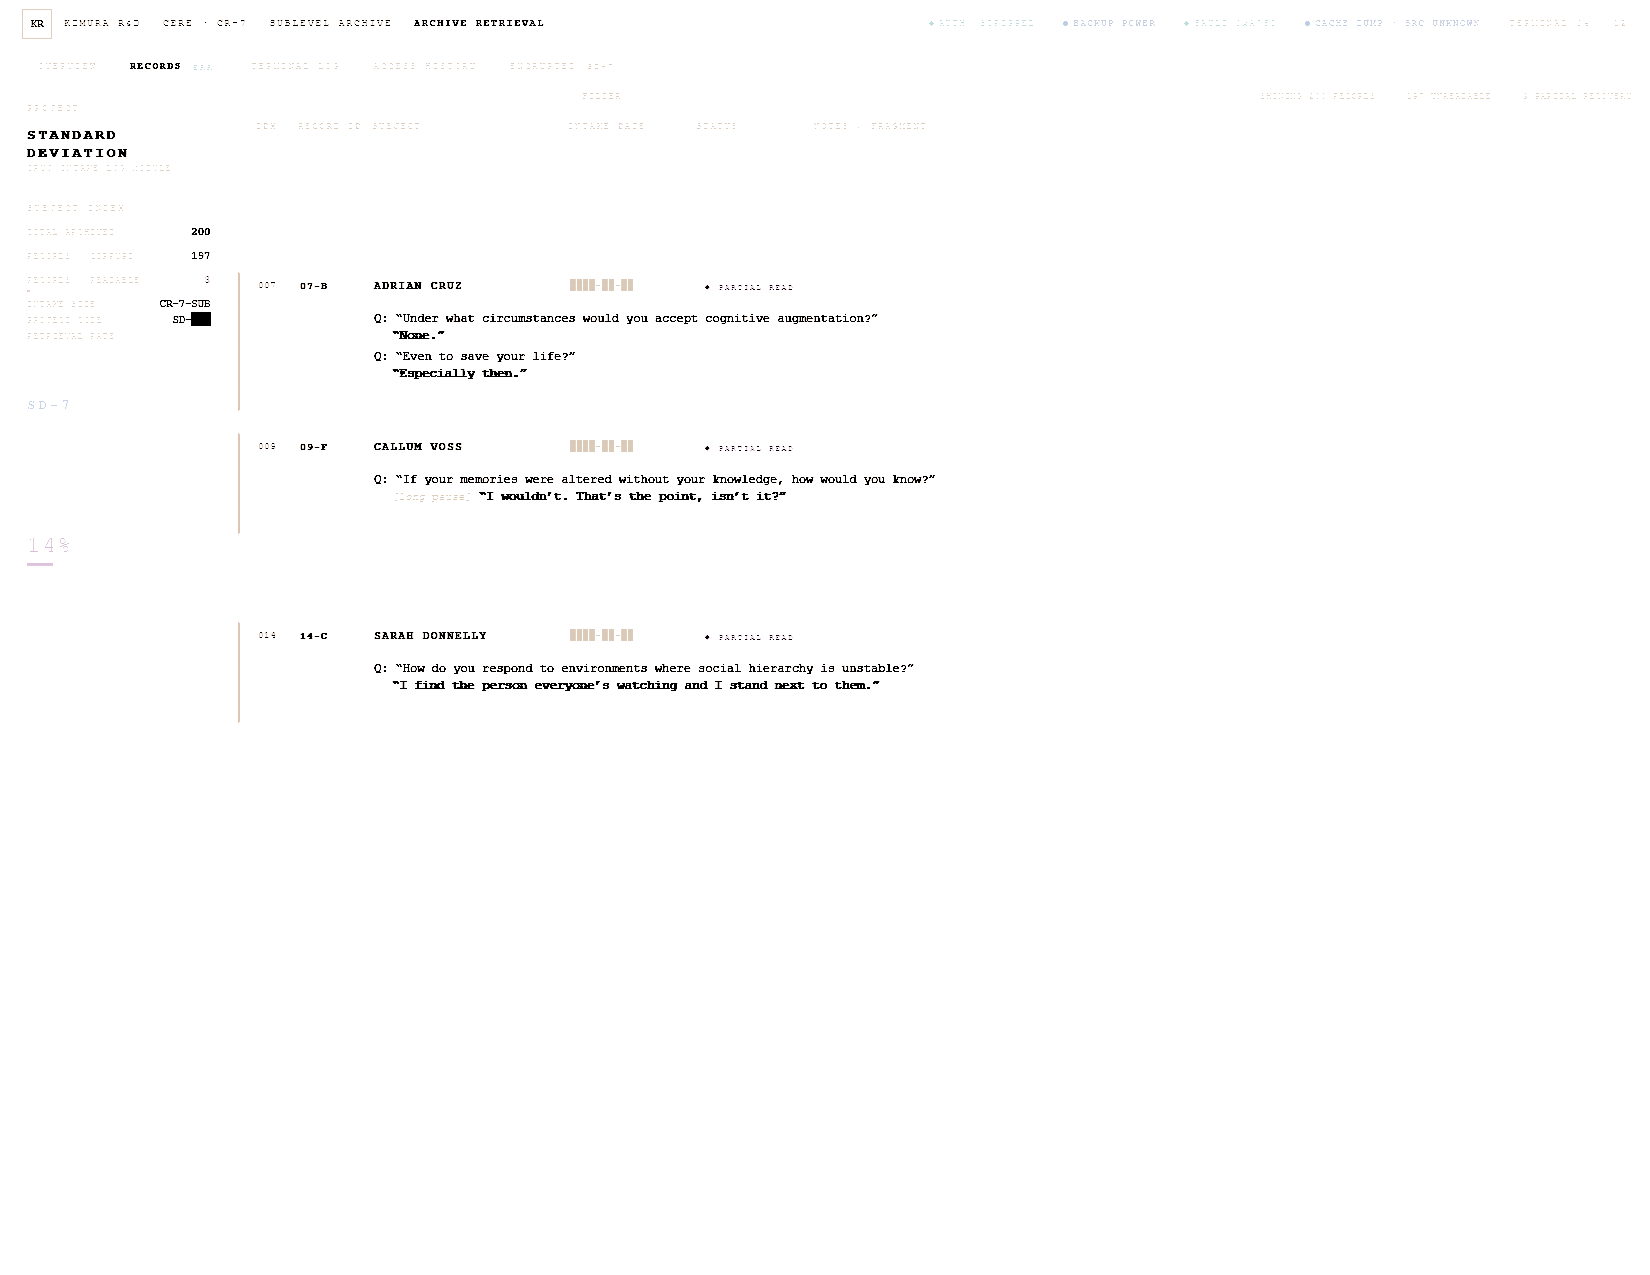
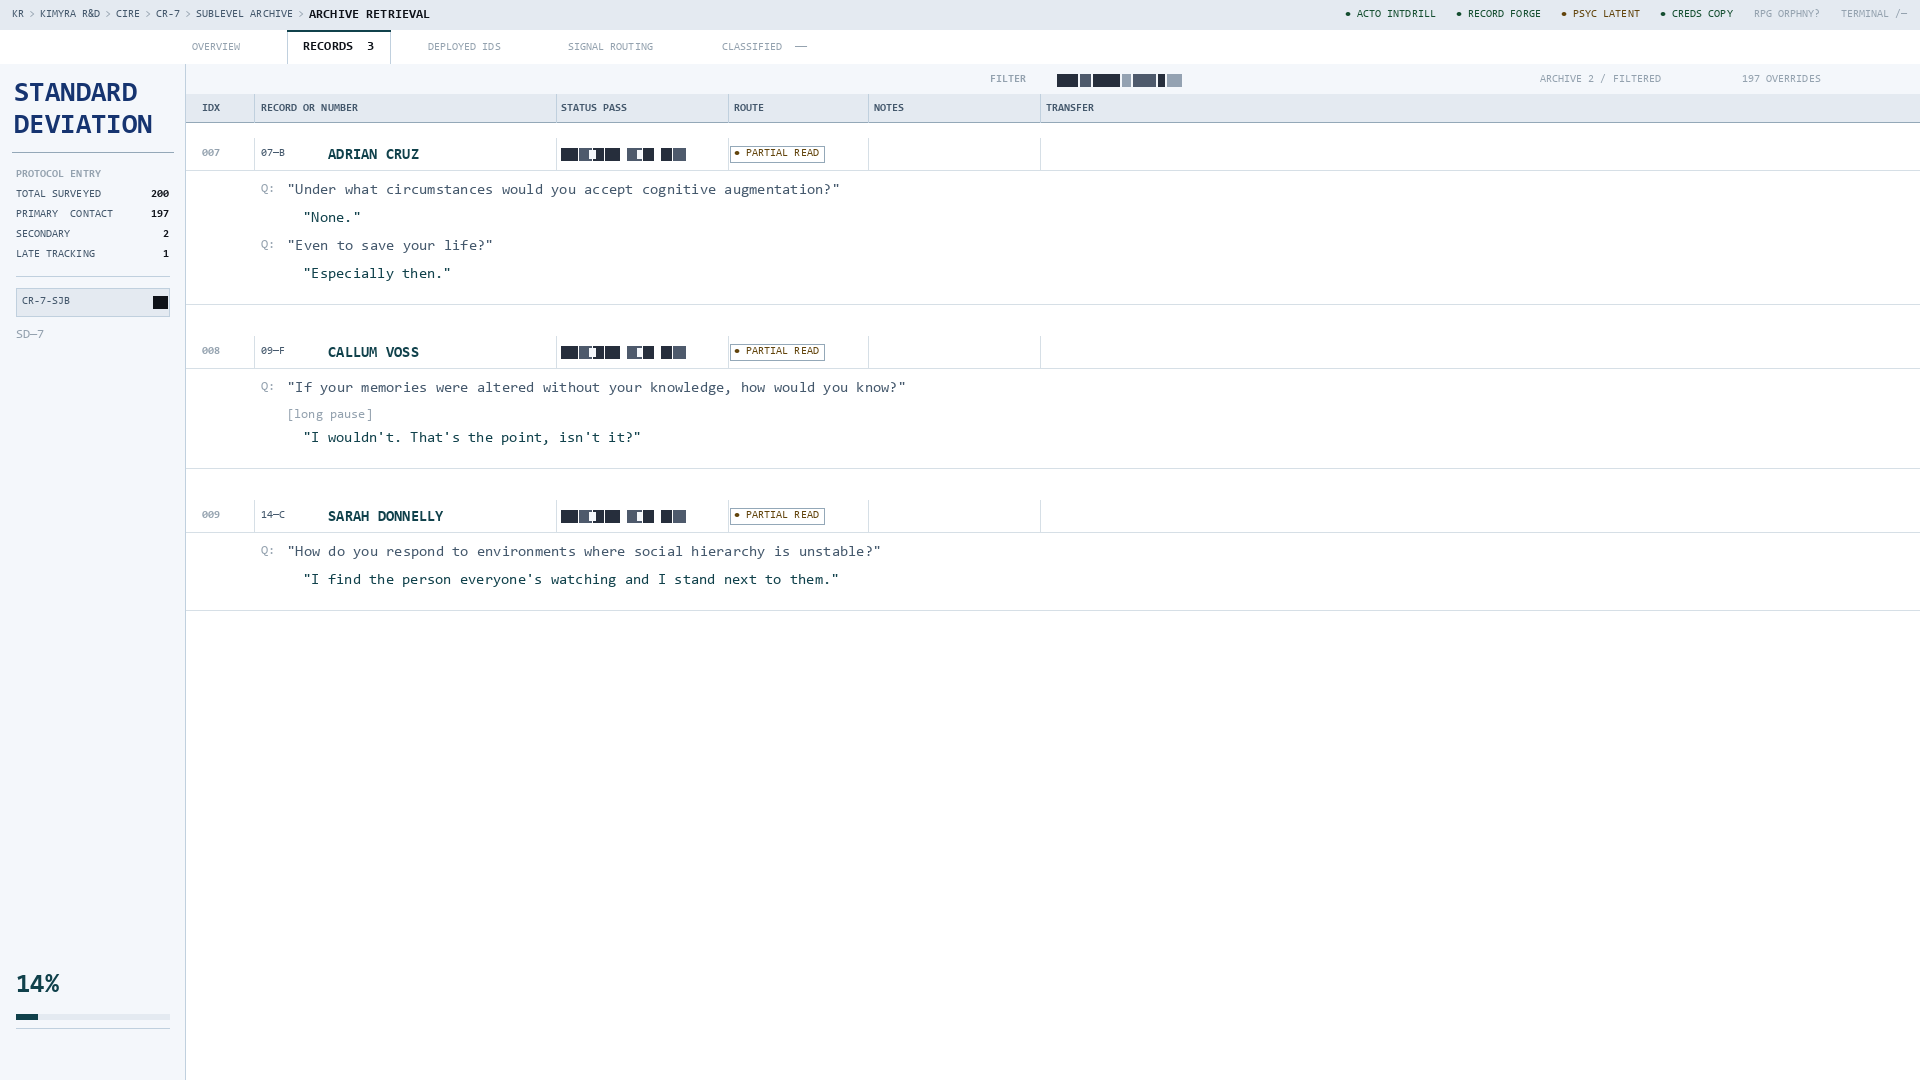
vault backup: 2026-04-11 17:48:28

diff --git a/_Assets/Scripts/gen_print_ui.py b/_Assets/Scripts/gen_print_ui.py
@@ -1,0 +1,274 @@
+from PIL import Image, ImageDraw, ImageFont
+
+W, H = 1920, 1080
+
+BG       = (255, 255, 255)
+PANEL    = (244, 247, 251)
+PANEL_DK = (228, 234, 241)
+BORDER   = (192, 208, 222)
+BORDER_DK= (148, 168, 184)
+TEXT_PRI = (14,  18,  25)
+TEXT_SEC = (68,  88, 108)
+TEXT_MUT = (148, 162, 175)
+TEAL     = (16,  65,  75)
+BLUE_DK  = (22,  52, 112)
+GREEN_DK = (20,  78,  48)
+AMBER_DK = (98,  68,  12)
+RULE     = (214, 223, 230)
+CRPT_HI  = (38,  46,  60)
+CRPT_MD  = (78,  90, 108)
+CRPT_LO  = (148, 162, 178)
+
+F = "C:/Windows/Fonts/"
+
+def mf(name, size):
+    try:
+        return ImageFont.truetype(F + name, size)
+    except:
+        return ImageFont.load_default()
+
+fonts = {
+    "xs":    mf("consola.ttf",  11),
+    "xs_b":  mf("consolab.ttf", 11),
+    "sm":    mf("consola.ttf",  13),
+    "sm_b":  mf("consolab.ttf", 13),
+    "md":    mf("consola.ttf",  15),
+    "md_b":  mf("consolab.ttf", 15),
+    "lg_b":  mf("consolab.ttf", 20),
+    "xl_b":  mf("consolab.ttf", 26),
+    "xxl_b": mf("consolab.ttf", 28),
+}
+
+img  = Image.new("RGB", (W, H), BG)
+draw = ImageDraw.Draw(img)
+
+def T(xy, s, color=TEXT_PRI, fk="md"):
+    draw.text(xy, s, fill=color, font=fonts[fk])
+
+def L(p1, p2, color=BORDER, w=1):
+    draw.line([p1, p2], fill=color, width=w)
+
+def R(box, fill=None, outline=None, ow=1):
+    draw.rectangle(box, fill=fill, outline=outline, width=ow)
+
+def TW(s, fk="md"):
+    bb = draw.textbbox((0, 0), s, font=fonts[fk])
+    return bb[2] - bb[0]
+
+# ── TOP NAV BAR ──────────────────────────────────────────────────────────────
+NAV_H = 30
+R([(0, 0), (W, NAV_H)], fill=PANEL_DK)
+L((0, NAV_H), (W, NAV_H), BORDER_DK)
+
+crumbs = [("KR", False), ("KIMYRA R&D", False), ("CIRE", False),
+          ("CR-7", False), ("SUBLEVEL ARCHIVE", False), ("ARCHIVE RETRIEVAL", True)]
+cx = 12
+for label, active in crumbs:
+    fk = "sm_b" if active else "xs"
+    col = TEXT_PRI if active else TEXT_SEC
+    T((cx, 8), label, col, fk)
+    cx += TW(label, fk) + 5
+    if not active:
+        T((cx, 8), ">", TEXT_MUT, "xs")
+        cx += TW(">", "xs") + 5
+
+right_items = [
+    ("● ACTO INTDRILL", GREEN_DK), ("● RECORD FORGE", GREEN_DK),
+    ("● PSYC LATENT",  AMBER_DK), ("● CREDS COPY",   GREEN_DK),
+    ("RPG ORPHNY?",    TEXT_MUT), ("TERMINAL /—",     TEXT_MUT),
+]
+rx = W - 12
+for label, col in reversed(right_items):
+    w_ = TW(label, "xs")
+    rx -= w_
+    T((rx, 8), label, col, "xs")
+    rx -= 20
+
+# ── TAB BAR ──────────────────────────────────────────────────────────────────
+TAB_Y = NAV_H
+TAB_H = 34
+R([(0, TAB_Y), (W, TAB_Y + TAB_H)], fill=BG)
+L((0, TAB_Y + TAB_H), (W, TAB_Y + TAB_H), BORDER)
+
+tabs = [("OVERVIEW", False), ("RECORDS  3", True), ("DEPLOYED IDS", False),
+        ("SIGNAL ROUTING", False), ("CLASSIFIED  ——", False)]
+tx = 192
+for label, active in tabs:
+    tw  = TW(label, "sm")
+    pad = 16
+    by  = TAB_Y
+    if active:
+        R([(tx - pad, by), (tx + tw + pad, by + TAB_H)], fill=BG, outline=BORDER)
+        L((tx - pad + 1, by + TAB_H), (tx + tw + pad - 1, by + TAB_H), BG, 2)
+        L((tx - pad, by), (tx + tw + pad, by), TEAL, 2)
+        T((tx, by + 10), label, TEXT_PRI, "sm_b")
+    else:
+        T((tx, by + 11), label, TEXT_MUT, "xs")
+    tx += tw + pad * 2 + 22
+
+# ── SIDEBAR ──────────────────────────────────────────────────────────────────
+SB_W = 185
+SB_Y = TAB_Y + TAB_H
+R([(0, SB_Y), (SB_W, H)], fill=PANEL)
+L((SB_W, SB_Y), (SB_W, H), BORDER)
+
+T((14, SB_Y + 16), "STANDARD",  BLUE_DK, "xxl_b")
+T((14, SB_Y + 48), "DEVIATION", BLUE_DK, "xxl_b")
+L((12, SB_Y + 88), (SB_W - 12, SB_Y + 88), BORDER_DK)
+
+sy = SB_Y + 104
+stat_rows = [
+    ("PROTOCOL ENTRY",   None),
+    ("TOTAL SURVEYED",   "200"),
+    ("PRIMARY  CONTACT", "197"),
+    ("SECONDARY",          "2"),
+    ("LATE TRACKING",      "1"),
+]
+for label, val in stat_rows:
+    if val is None:
+        T((16, sy), label, TEXT_MUT, "xs_b")
+    else:
+        T((16, sy), label, TEXT_SEC, "xs")
+        T((SB_W - 16 - TW(val, "xs_b"), sy), val, TEXT_PRI, "xs_b")
+    sy += 20
+
+sy += 8
+L((16, sy), (SB_W - 16, sy), BORDER)
+sy += 12
+
+R([(16, sy), (SB_W - 16, sy + 28)], fill=PANEL_DK, outline=BORDER)
+T((22, sy + 7), "CR-7-SJB", TEXT_SEC, "xs")
+R([(SB_W - 32, sy + 8), (SB_W - 18, sy + 20)], fill=TEXT_PRI)
+sy += 40
+T((16, sy), "SD—7", TEXT_MUT, "sm")
+
+py = H - 108
+T((16, py), "14%", TEAL, "xl_b")
+py += 42
+bar_x1, bar_x2 = 16, SB_W - 16
+R([(bar_x1, py), (bar_x2, py + 5)], fill=PANEL_DK)
+fill_end = bar_x1 + int((bar_x2 - bar_x1) * 0.14)
+R([(bar_x1, py), (fill_end, py + 5)], fill=TEAL)
+L((bar_x1, py + 14), (bar_x2, py + 14), BORDER)
+
+# ── CONTENT AREA ─────────────────────────────────────────────────────────────
+MX = SB_W + 1
+MW = W - MX
+
+COL = {
+    "idx":    MX + 16,
+    "rec":    MX + 75,
+    "name":   MX + 142,
+    "status": MX + 375,
+    "route":  MX + 548,
+    "notes":  MX + 688,
+    "xfer":   MX + 860,
+}
+COL_SEP = [MX + 68, MX + 370, MX + 542, MX + 682, MX + 854]
+
+# Filter bar
+FY  = SB_Y
+FH  = 30
+R([(MX, FY), (W, FY + FH)], fill=PANEL)
+L((MX, FY + FH), (W, FY + FH), BORDER)
+
+filter_cx = MX + MW // 2
+T((filter_cx - TW("FILTER", "xs_b") // 2 - 45, FY + 9), "FILTER", TEXT_MUT, "xs_b")
+cbx = filter_cx + 4
+for bw, shade in [(20, CRPT_HI), (10, CRPT_MD), (26, CRPT_HI), (8, CRPT_LO),
+                  (22, CRPT_MD), (6, CRPT_HI), (14, CRPT_LO)]:
+    R([(cbx, FY + 10), (cbx + bw, FY + 22)], fill=shade)
+    cbx += bw + 3
+
+T((W - 380, FY + 9), "ARCHIVE 2 / FILTERED", TEXT_MUT, "xs")
+T((W - 178, FY + 9), "197 OVERRIDES",        TEXT_MUT, "xs")
+
+# Column headers
+CHY = FY + FH
+CHH = 28
+R([(MX, CHY), (W, CHY + CHH)], fill=PANEL_DK)
+L((MX, CHY + CHH), (W, CHY + CHH), BORDER_DK)
+for sep in COL_SEP:
+    L((sep, CHY), (sep, CHY + CHH), BORDER)
+for key, label in [("idx","IDX"), ("rec","RECORD OR NUMBER"), ("status","STATUS PASS"),
+                   ("route","ROUTE"), ("notes","NOTES"), ("xfer","TRANSFER")]:
+    T((COL[key], CHY + 8), label, TEXT_SEC, "xs_b")
+
+# ── Corrupted date block renderer ────────────────────────────────────────────
+def crpt_date(x, y, h=12):
+    segs = [
+        (16, CRPT_HI), (12, CRPT_MD), (10, CRPT_HI), (14, CRPT_HI),
+        (4,  BG),
+        (14, CRPT_MD), (10, CRPT_HI),
+        (4,  BG),
+        (10, CRPT_HI), (12, CRPT_MD),
+    ]
+    bx = x
+    for bw, shade in segs:
+        if shade != BG:
+            R([(bx, y), (bx + bw, y + h)], fill=shade)
+        bx += bw + 2
+    R([(x + 28, y + 2), (x + 34, y + h - 2)], fill=PANEL)
+    R([(x + 76, y + 2), (x + 80, y + h - 2)], fill=PANEL)
+
+# ── Record renderer ──────────────────────────────────────────────────────────
+def draw_record(y0, idx, rec_id, subject, qa):
+    ROW_H = 32
+    R([(MX, y0), (W, y0 + ROW_H)], fill=BG)
+    L((MX, y0 + ROW_H), (W, y0 + ROW_H), RULE)
+    for sep in COL_SEP:
+        L((sep, y0), (sep, y0 + ROW_H), RULE)
+
+    T((COL["idx"],  y0 + 9), f"{idx:03d}", TEXT_MUT, "xs_b")
+    T((COL["rec"],  y0 + 9), rec_id,       TEXT_SEC, "xs")
+    T((COL["name"], y0 + 9), subject,      TEAL,     "md_b")
+    crpt_date(COL["status"], y0 + 10)
+
+    badge = "● PARTIAL READ"
+    bx = COL["route"]
+    R([(bx - 4, y0 + 8), (bx + TW(badge, "xs") + 5, y0 + 24)], outline=BORDER_DK)
+    T((bx, y0 + 9), badge, AMBER_DK, "xs")
+
+    qy = y0 + ROW_H + 12
+    for kind, txt in qa:
+        if kind == "q":
+            T((COL["rec"],         qy), "Q:", TEXT_MUT, "sm")
+            T((COL["rec"] + 26,    qy), f'"{txt}"', TEXT_SEC, "md")
+            qy += 28
+        elif kind == "a":
+            T((COL["rec"] + 42,    qy), f'"{txt}"', TEAL, "md")
+            qy += 28
+        elif kind == "note":
+            T((COL["rec"] + 26,    qy), txt, TEXT_MUT, "sm")
+            qy += 22
+
+    L((MX, qy + 10), (W, qy + 10), RULE)
+    return qy + 26
+
+# ── Records ──────────────────────────────────────────────────────────────────
+records = [
+    (7, "07—B", "ADRIAN CRUZ", [
+        ("q",    "Under what circumstances would you accept cognitive augmentation?"),
+        ("a",    "None."),
+        ("q",    "Even to save your life?"),
+        ("a",    "Especially then."),
+    ]),
+    (8, "09—F", "CALLUM VOSS", [
+        ("q",    "If your memories were altered without your knowledge, how would you know?"),
+        ("note", "[long pause]"),
+        ("a",    "I wouldn't. That's the point, isn't it?"),
+    ]),
+    (9, "14—C", "SARAH DONNELLY", [
+        ("q",    "How do you respond to environments where social hierarchy is unstable?"),
+        ("a",    "I find the person everyone's watching and I stand next to them."),
+    ]),
+]
+
+RY = CHY + CHH + 16
+for idx, rec_id, subject, qa in records:
+    RY = draw_record(RY, idx, rec_id, subject, qa)
+    RY += 16
+
+out = r"D:\ObsidianVaults\Nova Praxis\_Assets\terminal-sd-ui-landscape-print.png"
+img.save(out)
+print(f"Saved -> {out}")
